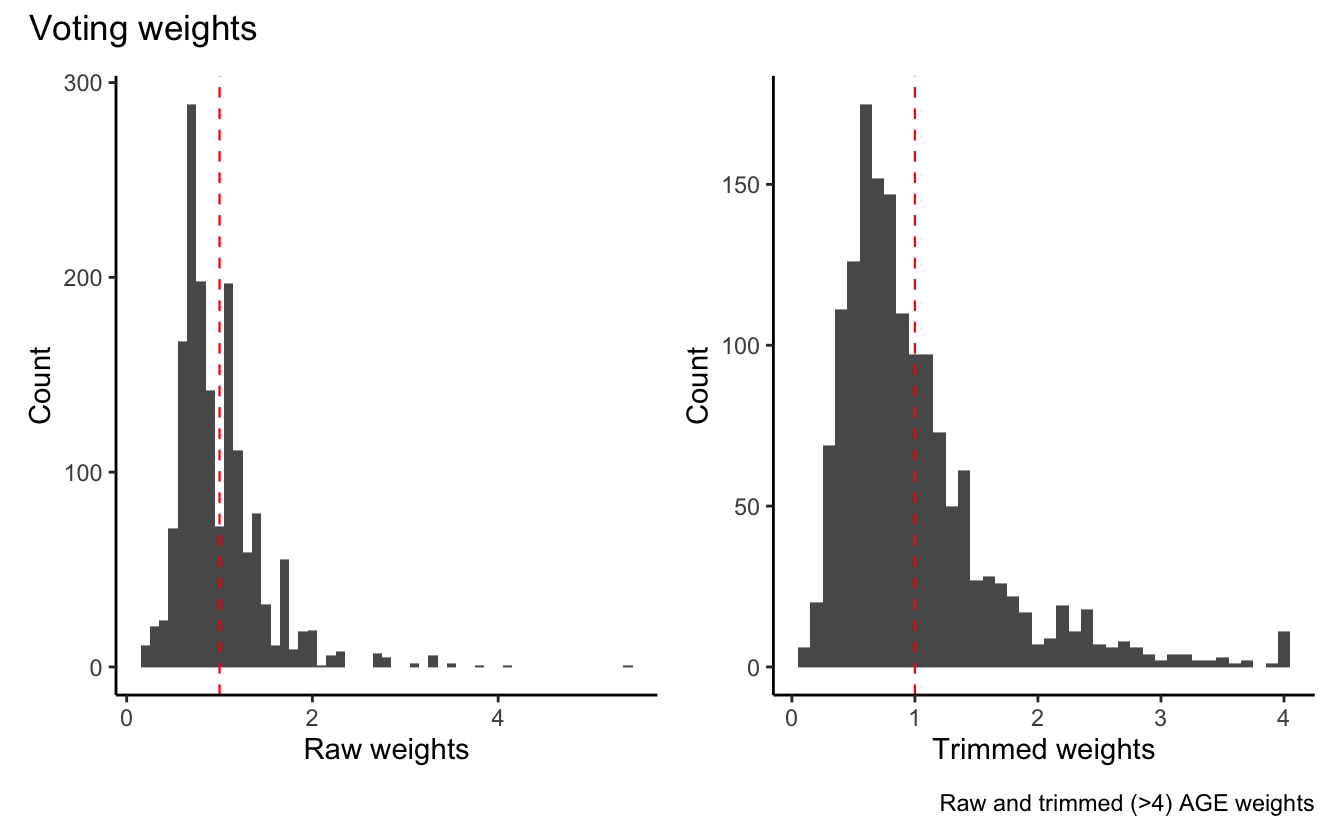
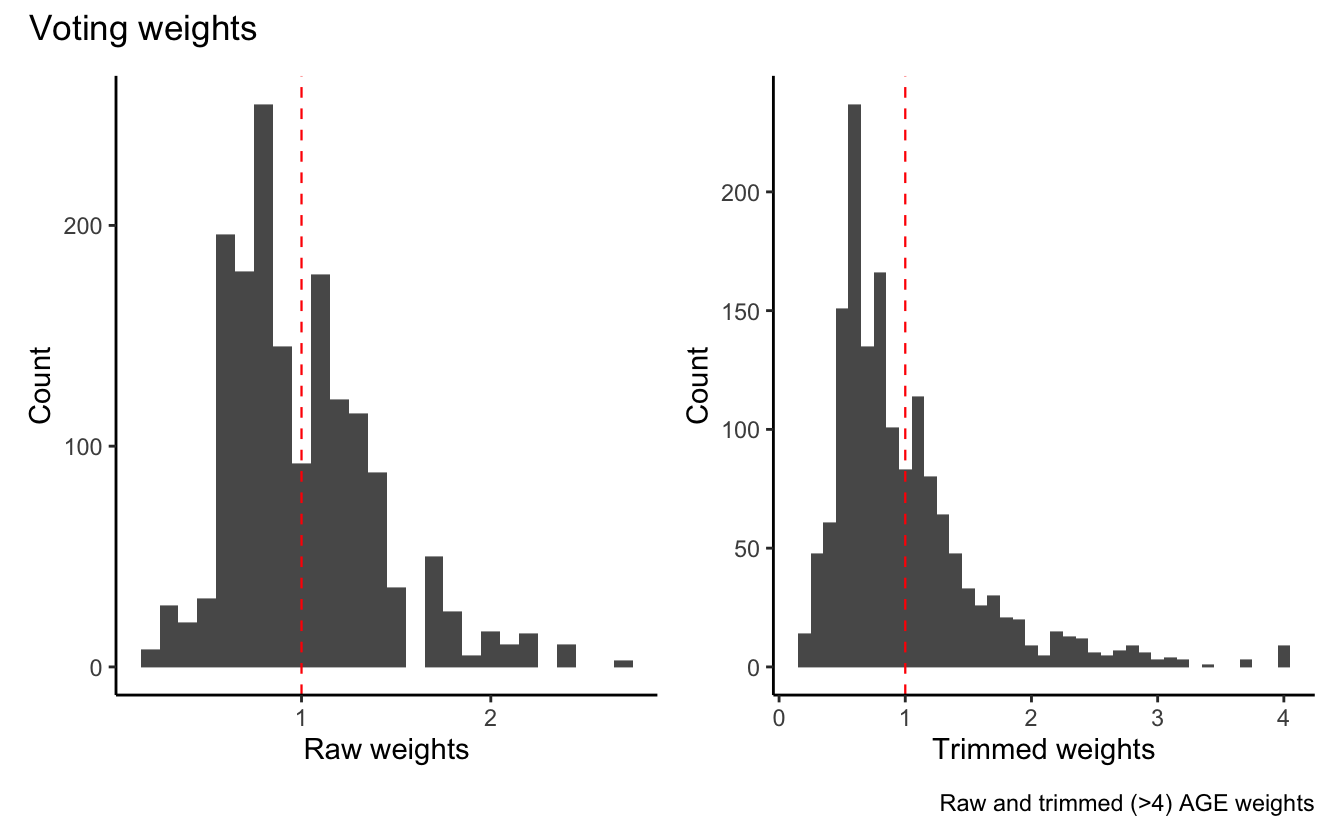
update weights blog post

diff --git a/content/post/weights_blog_post/weights_blog_post.md b/content/post/weights_blog_post/weights_blog_post.md
@@ -1,7 +1,7 @@
 ---
 title: Weighting the BNES 2019 data
 author: Alberto Stefanelli^[[Alberto  Stefanelli](https://albertostefanelli.com/)]
-# date: "2021-02-22"
+# date: "2021-03-15"
 # fontsize: 10pt 
 bibliography: /Users/serg/Library/Mobile Documents/com\~apple\~CloudDocs/academia/library.bib
 link-citations: yes
@@ -18,7 +18,7 @@ output:
   #   fig_width: 12
   #   fig_height: 8
 # header-includes
-rmd_hash: e2bdb99c56d47cca
+rmd_hash: 141b2d392c6ed9a9
 
 ---
 
@@ -53,25 +53,25 @@ The first step to calculate post-stratification weights is to pre-process the BN
 
 <div class="highlight">
 
-<pre class='chroma'><code class='language-r' data-lang='r'><span class='c'>## Read the LSF data ##</span>
-<span class='nv'>lsf</span> <span class='o'>&lt;-</span> <span class='nf'>readxl</span><span class='nf'>::</span><span class='nf'><a href='https://readxl.tidyverse.org/reference/read_excel.html'>read_excel</a></span><span class='o'>(</span><span class='s'>"kub_BNES_2019.xlsx"</span>,
-                          sheet<span class='o'>=</span><span class='m'>1</span><span class='o'>)</span>
-<span class='nf'><a href='https://rdrr.io/r/base/table.html'>table</a></span><span class='o'>(</span><span class='nv'>lsf</span><span class='o'>$</span><span class='nv'>REG1</span><span class='o'>)</span>
+<pre class='chroma'><code class='language-r' data-lang='r'><span class='c'>## Read the lfs data ##</span>
+<span class='nv'>lfs</span> <span class='o'>&lt;-</span> <span class='nf'>read_csv</span><span class='o'>(</span><span class='s'>"kub_BNES_2019_03_15_2021.csv"</span><span class='o'>)</span>
 
-BXL VLA WAL 
- 42  42  42 
-<span class='nf'><a href='https://rdrr.io/r/base/table.html'>table</a></span><span class='o'>(</span><span class='nv'>lsf</span><span class='o'>$</span><span class='nv'>sex1</span><span class='o'>)</span>
+<span class='nf'><a href='https://rdrr.io/r/base/table.html'>table</a></span><span class='o'>(</span><span class='nv'>lfs</span><span class='o'>$</span><span class='nv'>REG1</span><span class='o'>)</span>
+
+VLA WAL 
+ 42  42 
+<span class='nf'><a href='https://rdrr.io/r/base/table.html'>table</a></span><span class='o'>(</span><span class='nv'>lfs</span><span class='o'>$</span><span class='nv'>sex1</span><span class='o'>)</span>
 
 MEN WOM 
- 63  63 
-<span class='nf'><a href='https://rdrr.io/r/base/table.html'>table</a></span><span class='o'>(</span><span class='nv'>lsf</span><span class='o'>$</span><span class='nv'>age18</span><span class='o'>)</span>
+ 42  42 
+<span class='nf'><a href='https://rdrr.io/r/base/table.html'>table</a></span><span class='o'>(</span><span class='nv'>lfs</span><span class='o'>$</span><span class='nv'>age18</span><span class='o'>)</span>
 
 18-27 28-37 38-47 48-57 58-67 68-77    78 
-   18    18    18    18    18    18    18 
-<span class='nf'><a href='https://rdrr.io/r/base/table.html'>table</a></span><span class='o'>(</span><span class='nv'>lsf</span><span class='o'>$</span><span class='nv'>educat3c</span><span class='o'>)</span>
+   12    12    12    12    12    12    12 
+<span class='nf'><a href='https://rdrr.io/r/base/table.html'>table</a></span><span class='o'>(</span><span class='nv'>lfs</span><span class='o'>$</span><span class='nv'>educat3c</span><span class='o'>)</span>
 
  1  2  3 
-42 42 42 </code></pre>
+28 28 28 </code></pre>
 
 </div>
 
@@ -80,7 +80,7 @@ The LFS data set is aggregated by specific categories. For instance, education (
 <div class="highlight">
 
 <pre class='chroma'><code class='language-r' data-lang='r'><span class='c'>## Read the BNES data ##</span>
-<span class='nv'>BNES_2019</span> <span class='o'>&lt;-</span> <span class='nf'>haven</span><span class='nf'>::</span><span class='nf'><a href='https://haven.tidyverse.org/reference/read_spss.html'>read_sav</a></span><span class='o'>(</span><span class='s'>"BNES_2019_complete_update_02_10_2021.sav"</span><span class='o'>)</span>
+<span class='nv'>BNES_2019</span> <span class='o'>&lt;-</span> <span class='nf'>haven</span><span class='nf'>::</span><span class='nf'><a href='https://haven.tidyverse.org/reference/read_spss.html'>read_sav</a></span><span class='o'>(</span><span class='s'>"BNES_2019_complete_update_clean_03_15_2021.sav"</span><span class='o'>)</span>
 
 <span class='nv'>BNES_selected</span> <span class='o'>&lt;-</span> <span class='nv'>BNES_2019</span> <span class='o'>%&gt;%</span> <span class='nf'>select</span><span class='o'>(</span><span class='nv'>age</span>,
                                       <span class='nv'>PROVINCE</span>,
@@ -91,7 +91,7 @@ The LFS data set is aggregated by specific categories. For instance, education (
                                       <span class='nv'>q24</span>        <span class='c'># self-reported vote</span>
                                       <span class='o'>)</span>
 
-<span class='c'># recode education to match the LSF data</span>
+<span class='c'># recode education to match the LFS data</span>
 <span class='nv'>BNES_selected</span><span class='o'>$</span><span class='nv'>educat3c</span> <span class='o'>&lt;-</span> <span class='nf'><a href='https://rdrr.io/r/base/ifelse.html'>ifelse</a></span><span class='o'>(</span><span class='nv'>BNES_selected</span><span class='o'>$</span><span class='nv'>q13</span> <span class='o'>&lt;=</span><span class='m'>5</span> , <span class='m'>1</span>,
                                   <span class='nf'><a href='https://rdrr.io/r/base/ifelse.html'>ifelse</a></span><span class='o'>(</span><span class='nv'>BNES_selected</span><span class='o'>$</span><span class='nv'>q13</span> <span class='o'>&gt;</span><span class='m'>5</span> <span class='o'>&amp;</span> <span class='nv'>BNES_selected</span><span class='o'>$</span><span class='nv'>q13</span> <span class='o'>&lt;=</span><span class='m'>8</span> , <span class='m'>2</span>,
                                     <span class='nf'><a href='https://rdrr.io/r/base/ifelse.html'>ifelse</a></span><span class='o'>(</span><span class='nv'>BNES_selected</span><span class='o'>$</span><span class='nv'>q13</span> <span class='o'>&gt;</span><span class='m'>8</span> <span class='o'>&amp;</span> <span class='nv'>BNES_selected</span><span class='o'>$</span><span class='nv'>q13</span> <span class='o'>&lt;=</span><span class='m'>10</span>, <span class='m'>3</span>, <span class='kc'>NA</span>
@@ -100,11 +100,11 @@ The LFS data set is aggregated by specific categories. For instance, education (
 
 </div>
 
-Similarly, we need to recode the rest of the variables that we are going to use to calculate the weights, namely age, gender, and region. Age is aggregated in 7 categories: 18-27; 28-37; 38-47; 48-57; 58-67; 68-77 and plus 78. The 3 regions are Flanders (VLA), Wallonia (WAL) and Brussels-capital (BXL). The assigned sex at birth is female (WOM) and male (MEN).
+Similarly, we need to recode the rest of the variables that we are going to use to calculate the weights, namely age, gender, and region. Age is aggregated in 7 categories: 18-27; 28-37; 38-47; 48-57; 58-67; 68-77 and plus 78. The 2 regions are Flanders (VLA) and Wallonia (WAL) (roughly) corresponding to French-speaking and Dutch-speaking Belgium. The assigned sex at birth is female (WOM) and male (MEN).
 
 <div class="highlight">
 
-<pre class='chroma'><code class='language-r' data-lang='r'><span class='c'># recode age to match the LSF data</span>
+<pre class='chroma'><code class='language-r' data-lang='r'><span class='c'># recode age to match the LFS data</span>
 <span class='nv'>BNES_selected</span><span class='o'>$</span><span class='nv'>age18</span> <span class='o'>&lt;-</span> <span class='nf'><a href='https://rdrr.io/r/base/ifelse.html'>ifelse</a></span><span class='o'>(</span><span class='nv'>BNES_selected</span><span class='o'>$</span><span class='nv'>age</span> <span class='o'>&gt;=</span><span class='m'>18</span> <span class='o'>&amp;</span> <span class='nv'>BNES_selected</span><span class='o'>$</span><span class='nv'>age</span> <span class='o'>&lt;=</span><span class='m'>27</span>, <span class='s'>"18-27"</span>, 
                         <span class='nf'><a href='https://rdrr.io/r/base/ifelse.html'>ifelse</a></span><span class='o'>(</span><span class='nv'>BNES_selected</span><span class='o'>$</span><span class='nv'>age</span> <span class='o'>&gt;</span> <span class='m'>27</span> <span class='o'>&amp;</span> <span class='nv'>BNES_selected</span><span class='o'>$</span><span class='nv'>age</span> <span class='o'>&lt;=</span><span class='m'>37</span>, <span class='s'>"28-37"</span>,
                           <span class='nf'><a href='https://rdrr.io/r/base/ifelse.html'>ifelse</a></span><span class='o'>(</span><span class='nv'>BNES_selected</span><span class='o'>$</span><span class='nv'>age</span> <span class='o'>&gt;</span> <span class='m'>37</span> <span class='o'>&amp;</span> <span class='nv'>BNES_selected</span><span class='o'>$</span><span class='nv'>age</span> <span class='o'>&lt;=</span><span class='m'>47</span>, <span class='s'>"38-47"</span>,
@@ -114,21 +114,14 @@ Similarly, we need to recode the rest of the variables that we are going to use 
                                   <span class='nf'><a href='https://rdrr.io/r/base/ifelse.html'>ifelse</a></span><span class='o'>(</span><span class='nv'>BNES_selected</span><span class='o'>$</span><span class='nv'>age</span> <span class='o'>&gt;</span> <span class='m'>77</span>, <span class='s'>"78"</span>,<span class='kc'>NA</span>
                           <span class='o'>)</span><span class='o'>)</span><span class='o'>)</span><span class='o'>)</span><span class='o'>)</span><span class='o'>)</span><span class='o'>)</span>
 
-<span class='c'># recode region to match the LSF data</span>
+<span class='c'># recode region to match the lfs data</span>
 <span class='nv'>BNES_selected</span><span class='o'>$</span><span class='nv'>REG1</span> <span class='o'>&lt;-</span> <span class='nf'><a href='https://rdrr.io/r/base/ifelse.html'>ifelse</a></span><span class='o'>(</span><span class='nv'>BNES_selected</span><span class='o'>$</span><span class='nv'>region</span><span class='o'>==</span><span class='m'>1</span>, <span class='s'>"VLA"</span>,
                              <span class='nf'><a href='https://rdrr.io/r/base/ifelse.html'>ifelse</a></span><span class='o'>(</span><span class='nv'>BNES_selected</span><span class='o'>$</span><span class='nv'>region</span><span class='o'>==</span><span class='m'>2</span>, <span class='s'>"WAL"</span>,<span class='kc'>NA</span>
                              <span class='o'>)</span><span class='o'>)</span>
 
 
-
-<span class='c'># in the original dataset, Brussels-capital region is not present so we are going </span>
-<span class='c'># to use the province variable to identify Brussels's respondents </span>
-<span class='nv'>BNES_selected</span><span class='o'>$</span><span class='nv'>REG1</span> <span class='o'>&lt;-</span>  <span class='nf'><a href='https://rdrr.io/r/base/ifelse.html'>ifelse</a></span><span class='o'>(</span><span class='nv'>BNES_selected</span><span class='o'>$</span><span class='nv'>REG1</span><span class='o'>==</span><span class='s'>"WAL"</span> <span class='o'>&amp;</span> <span class='nv'>BNES_selected</span><span class='o'>$</span><span class='nv'>PROVINCE</span><span class='o'>==</span><span class='m'>2</span>, <span class='s'>"BXL"</span>, <span class='nv'>BNES_selected</span><span class='o'>$</span><span class='nv'>REG1</span><span class='o'>)</span>
-
-<span class='c'># recode sex to match the LSF data</span>
-<span class='nv'>BNES_selected</span><span class='o'>$</span><span class='nv'>sex1</span> <span class='o'>&lt;-</span> <span class='nf'><a href='https://rdrr.io/r/base/ifelse.html'>ifelse</a></span><span class='o'>(</span><span class='nv'>BNES_selected</span><span class='o'>$</span><span class='nv'>q2</span><span class='o'>==</span><span class='m'>1</span>, <span class='s'>"MEN"</span>, <span class='s'>"WOM"</span><span class='o'>)</span>
-
-</code></pre>
+<span class='c'># recode sex to match the lfs data</span>
+<span class='nv'>BNES_selected</span><span class='o'>$</span><span class='nv'>sex1</span> <span class='o'>&lt;-</span> <span class='nf'><a href='https://rdrr.io/r/base/ifelse.html'>ifelse</a></span><span class='o'>(</span><span class='nv'>BNES_selected</span><span class='o'>$</span><span class='nv'>q2</span><span class='o'>==</span><span class='m'>1</span>, <span class='s'>"MEN"</span>, <span class='s'>"WOM"</span><span class='o'>)</span></code></pre>
 
 </div>
 
@@ -152,7 +145,7 @@ The next step consists of calculating the population margins and the correspondi
 <div class="highlight">
 
 <pre class='chroma'><code class='language-r' data-lang='r'><span class='c'># calculate the population totals</span>
-<span class='nv'>totals</span> <span class='o'>&lt;-</span> <span class='nv'>lsf</span> <span class='o'>%&gt;%</span> 
+<span class='nv'>totals</span> <span class='o'>&lt;-</span> <span class='nv'>lfs</span> <span class='o'>%&gt;%</span> 
   <span class='nf'>group_by</span><span class='o'>(</span><span class='nv'>sex1</span>, <span class='nv'>REG1</span>, <span class='nv'>age18</span>, <span class='nv'>educat3c</span><span class='o'>)</span> <span class='o'>%&gt;%</span> 
   <span class='nf'>summarize</span><span class='o'>(</span>count <span class='o'>=</span> <span class='nf'><a href='https://rdrr.io/r/base/sum.html'>sum</a></span><span class='o'>(</span><span class='nv'>CW_ALL_Q_Sum</span><span class='o'>)</span><span class='o'>)</span>
 
@@ -165,14 +158,14 @@ The next step consists of calculating the population margins and the correspondi
 <span class='nf'>kable</span><span class='o'>(</span><span class='nf'><a href='https://rdrr.io/r/utils/head.html'>head</a></span><span class='o'>(</span><span class='nv'>marignals_share</span><span class='o'>)</span><span class='o'>)</span>
 </code></pre>
 
-| sex1 | REG1 | age18 | educat3c |    count | marignals_share |     Freq |
-|:-----|:-----|:------|---------:|---------:|----------------:|---------:|
-| MEN  | BXL  | 18-27 |        1 | 24656.65 |       0.0027365 | 4.446835 |
-| MEN  | BXL  | 18-27 |        2 | 36213.56 |       0.0040192 | 6.531126 |
-| MEN  | BXL  | 18-27 |        3 | 16971.64 |       0.0018836 | 3.060841 |
-| MEN  | BXL  | 28-37 |        1 | 21671.59 |       0.0024052 | 3.908479 |
-| MEN  | BXL  | 28-37 |        2 | 22445.38 |       0.0024911 | 4.048031 |
-| MEN  | BXL  | 28-37 |        3 | 55279.43 |       0.0061352 | 9.969663 |
+| sex1 | REG1 | age18 | educat3c |    count | marignals_share |      Freq |
+|:-----|:-----|:------|---------:|---------:|----------------:|----------:|
+| MEN  | VLA  | 18-27 |        1 |  75932.2 |       0.0084273 | 13.702824 |
+| MEN  | VLA  | 18-27 |        2 | 200763.4 |       0.0222817 | 36.230020 |
+| MEN  | VLA  | 18-27 |        3 | 102181.7 |       0.0113406 | 18.439838 |
+| MEN  | VLA  | 28-37 |        1 |  54259.9 |       0.0060220 |  9.791813 |
+| MEN  | VLA  | 28-37 |        2 | 195885.3 |       0.0217403 | 35.349711 |
+| MEN  | VLA  | 28-37 |        3 | 162217.5 |       0.0180037 | 29.273983 |
 
 </div>
 
@@ -245,7 +238,6 @@ In certain scenarios, the computed weights might be too large. This happens when
 <span class='nv'>plot_non_trimmed</span> <span class='o'>+</span> <span class='nv'>plot_trimmed</span> <span class='o'>+</span> <span class='nf'>plot_annotation</span><span class='o'>(</span>
   title <span class='o'>=</span> <span class='s'>'Demographic weights'</span>,
   caption <span class='o'>=</span> <span class='s'>'Raw and trimmed (&gt;4) AGE weights'</span><span class='o'>)</span>
-
 </code></pre>
 <img src="figs/unnamed-chunk-7-1.png" width="700px" style="display: block; margin: auto;" />
 
@@ -255,8 +247,7 @@ Finally, we merge the weights with the untouched dataset. We use the respondent 
 
 <div class="highlight">
 
-<pre class='chroma'><code class='language-r' data-lang='r'>
-<span class='c'>## Merge the weights with the BNES data ##</span>
+<pre class='chroma'><code class='language-r' data-lang='r'><span class='c'>## Merge the weights with the BNES data ##</span>
 <span class='nv'>binded</span> <span class='o'>&lt;-</span> <span class='nf'><a href='https://rdrr.io/r/base/cbind.html'>cbind</a></span><span class='o'>(</span><span class='nv'>data_wo_na_f</span>, <span class='nf'><a href='https://rdrr.io/r/stats/weights.html'>weights</a></span><span class='o'>(</span><span class='nv'>trimmed_w</span><span class='o'>)</span><span class='o'>)</span>
 <span class='c'># rename the weight variable according to the type of weights calculated (i.e. AGE)</span>
 <span class='nf'><a href='https://rdrr.io/r/base/names.html'>names</a></span><span class='o'>(</span><span class='nv'>binded</span><span class='o'>)</span><span class='o'>[</span><span class='nf'><a href='https://rdrr.io/r/base/grep.html'>grep</a></span><span class='o'>(</span><span class='s'>"weights"</span>, <span class='nf'><a href='https://rdrr.io/r/base/names.html'>names</a></span><span class='o'>(</span><span class='nv'>binded</span><span class='o'>)</span><span class='o'>)</span><span class='o'>]</span> <span class='o'>&lt;-</span> <span class='s'>"w_age_bel"</span>
@@ -273,7 +264,7 @@ Finally, we merge the weights with the untouched dataset. We use the respondent 
 
 <span class='c'>## Check everything is in order ##</span>
 <span class='c'># missing weights only for obs with missing on the matching variables</span>
-<span class='nv'>id_na</span> <span class='o'>&lt;-</span> <span class='nv'>BNES_2019</span><span class='o'>[</span> ,<span class='s'>"addressID"</span><span class='o'>]</span><span class='o'>[</span><span class='nf'><a href='https://rdrr.io/r/base/NA.html'>is.na</a></span><span class='o'>(</span><span class='nv'>BNES_2019</span><span class='o'>[</span><span class='nf'><a href='https://rdrr.io/r/base/c.html'>c</a></span><span class='o'>(</span><span class='s'>"w_age_bel"</span><span class='o'>)</span><span class='o'>]</span><span class='o'>)</span><span class='o'>]</span>
+<span class='nv'>id_na</span> <span class='o'>&lt;-</span> <span class='nv'>BNES_2019</span><span class='o'>[</span><span class='nf'><a href='https://rdrr.io/r/base/NA.html'>is.na</a></span><span class='o'>(</span><span class='nv'>BNES_2019</span><span class='o'>[</span><span class='nf'><a href='https://rdrr.io/r/base/c.html'>c</a></span><span class='o'>(</span><span class='s'>"w_age_bel"</span><span class='o'>)</span><span class='o'>]</span><span class='o'>)</span> ,<span class='s'>"addressID"</span><span class='o'>]</span><span class='o'>[</span><span class='o'>]</span>
 
 <span class='nv'>list_na</span> <span class='o'>&lt;-</span> <span class='nf'><a href='https://rdrr.io/r/base/c.html'>c</a></span><span class='o'>(</span><span class='o'>)</span>
 <span class='kr'>for</span> <span class='o'>(</span><span class='nv'>i</span> <span class='kr'>in</span> <span class='nf'><a href='https://rdrr.io/r/base/array.html'>array</a></span><span class='o'>(</span><span class='nf'><a href='https://rdrr.io/r/base/unlist.html'>unlist</a></span><span class='o'>(</span><span class='nv'>id_na</span><span class='o'>)</span><span class='o'>)</span><span class='o'>)</span> <span class='o'>&#123;</span>
@@ -286,10 +277,10 @@ Finally, we merge the weights with the untouched dataset. We use the respondent 
 |       | age | PROVINCE | region | q13 | q2  | addressID | q24 | educat3c | age18 | REG1 | sex1 |
 |:------|:----|:---------|:-------|:----|:----|:----------|:----|:---------|:------|:-----|:-----|
 | out   | NA  | 7        | 2      | 4   | 2   | 43905     | 12  | 1        | NA    | WAL  | WOM  |
-| elt   | NA  | 2        | 2      | 4   | 2   | 43409     | 52  | 1        | NA    | BXL  | WOM  |
-| elt.1 | NA  | 2        | 2      | 3   | 1   | 43119     | 12  | 1        | NA    | BXL  | MEN  |
-| elt.2 | NA  | 2        | 2      | 3   | 2   | 41111     | 13  | 1        | NA    | BXL  | WOM  |
-| elt.3 | NA  | 2        | 2      | 4   | 2   | 41103     | 77  | 1        | NA    | BXL  | WOM  |
+| elt   | NA  | 2        | 2      | 4   | 2   | 43409     | 52  | 1        | NA    | WAL  | WOM  |
+| elt.1 | NA  | 2        | 2      | 3   | 1   | 43119     | 12  | 1        | NA    | WAL  | MEN  |
+| elt.2 | NA  | 2        | 2      | 3   | 2   | 41111     | 13  | 1        | NA    | WAL  | WOM  |
+| elt.3 | NA  | 2        | 2      | 4   | 2   | 41103     | 77  | 1        | NA    | WAL  | WOM  |
 
 </div>
 
@@ -381,36 +372,27 @@ The next step consists of calculating the population margins and the correspondi
 
 | vote |      Freq |
 |:-----|----------:|
-| 1    | 113.67733 |
-| 2    | 205.04388 |
-| 3    | 109.30283 |
-| 4    |  85.85117 |
-| 5    | 152.85593 |
-| 6    |  78.07835 |
+| 1    | 113.75109 |
+| 2    | 205.17694 |
+| 3    | 109.37376 |
+| 4    |  85.90688 |
+| 5    | 152.95512 |
+| 6    |  78.12902 |
 
 </div>
 
-Next, we need to calculate the frequencies of sex age education taking into account the geographical location of the respondent (region). One issue has been glossed so far. If we are unlucky enough to sample no one from a certain population stratum, it is not possible to calculate the weights. One of the major difference between the procedure to calculate the demographic and the voting behaviour weights is the handling of such empty strata. When the option `partial = TRUE` , `postStatify()` automatically ignores any empty cell in the computation of the weights. The `rake()` function does include a `partial = TRUE` option. We could aggregate the data such as we have fewer but larger groups. Since we have just a few missing strata and only for the Brussel region, we are going to manually remove these empty cells.
+Next, we need to calculate the frequencies of sex age education taking into account the geographical location of the respondent (region). One issue has been glossed so far. If we are unlucky enough to sample no one from a certain population stratum, it is not possible to calculate the weights. One of the major difference between the procedure to calculate the demographic and the voting behaviour weights is the handling of such empty strata. When the option `partial = TRUE` , `postStatify()` automatically ignores any empty cell in the computation of the weights. The `rake()` function does include a `partial = TRUE` option. In case you have empty strata in your sample, you can aggregate the data such as we have fewer but larger groups.
 
 <div class="highlight">
 
 <pre class='chroma'><code class='language-r' data-lang='r'><span class='c'>## frequencies gender reg age eduction ##</span>
-<span class='nv'>totals</span> <span class='o'>&lt;-</span> <span class='nv'>lsf</span> <span class='o'>%&gt;%</span> <span class='nf'>group_by</span><span class='o'>(</span><span class='nv'>sex1</span>, <span class='nv'>REG1</span>, <span class='nv'>age18</span>, <span class='nv'>educat3c</span><span class='o'>)</span> <span class='o'>%&gt;%</span> 
+<span class='nv'>totals</span> <span class='o'>&lt;-</span> <span class='nv'>lfs</span> <span class='o'>%&gt;%</span> <span class='nf'>group_by</span><span class='o'>(</span><span class='nv'>sex1</span>, <span class='nv'>REG1</span>, <span class='nv'>age18</span>, <span class='nv'>educat3c</span><span class='o'>)</span> <span class='o'>%&gt;%</span> 
           <span class='nf'>summarize</span><span class='o'>(</span>count <span class='o'>=</span> <span class='nf'><a href='https://rdrr.io/r/base/sum.html'>sum</a></span><span class='o'>(</span><span class='nv'>CW_ALL_Q_Sum</span><span class='o'>)</span><span class='o'>)</span>
 
 <span class='c'># we can check the presence of any empty strata (0) in our survey data using xtab</span>
 <span class='c'># sum(xtabs(~sex1 + REG1 + age18 + educat3c,</span>
 <span class='c'>#      data_wo_na_f)==0)</span>
 
-
-<span class='c'># remove empty cells for rake</span>
-<span class='nv'>totals</span> <span class='o'>&lt;-</span> <span class='nv'>totals</span><span class='o'>[</span><span class='o'>!</span><span class='nf'><a href='https://rdrr.io/r/base/c.html'>c</a></span><span class='o'>(</span><span class='nv'>totals</span><span class='o'>$</span><span class='nv'>educat3c</span> <span class='o'>==</span> <span class='m'>1</span> <span class='o'>&amp;</span> <span class='nv'>totals</span><span class='o'>$</span><span class='nv'>REG1</span> <span class='o'>==</span> <span class='s'>"BXL"</span> <span class='o'>&amp;</span> <span class='nv'>totals</span><span class='o'>$</span><span class='nv'>sex1</span><span class='o'>==</span> <span class='s'>"MEN"</span> <span class='o'>&amp;</span> <span class='nv'>totals</span><span class='o'>$</span><span class='nv'>age18</span><span class='o'>==</span><span class='s'>"68-77"</span><span class='o'>)</span>,  <span class='o'>]</span>
-<span class='nv'>totals</span> <span class='o'>&lt;-</span> <span class='nv'>totals</span><span class='o'>[</span><span class='o'>!</span><span class='nf'><a href='https://rdrr.io/r/base/c.html'>c</a></span><span class='o'>(</span><span class='nv'>totals</span><span class='o'>$</span><span class='nv'>educat3c</span> <span class='o'>==</span> <span class='m'>1</span> <span class='o'>&amp;</span> <span class='nv'>totals</span><span class='o'>$</span><span class='nv'>REG1</span> <span class='o'>==</span> <span class='s'>"BXL"</span> <span class='o'>&amp;</span> <span class='nv'>totals</span><span class='o'>$</span><span class='nv'>sex1</span><span class='o'>==</span> <span class='s'>"MEN"</span> <span class='o'>&amp;</span> <span class='nv'>totals</span><span class='o'>$</span><span class='nv'>age18</span><span class='o'>==</span> <span class='s'>"78"</span><span class='o'>)</span>,    <span class='o'>]</span>
-<span class='nv'>totals</span> <span class='o'>&lt;-</span> <span class='nv'>totals</span><span class='o'>[</span><span class='o'>!</span><span class='nf'><a href='https://rdrr.io/r/base/c.html'>c</a></span><span class='o'>(</span><span class='nv'>totals</span><span class='o'>$</span><span class='nv'>educat3c</span> <span class='o'>==</span> <span class='m'>1</span> <span class='o'>&amp;</span> <span class='nv'>totals</span><span class='o'>$</span><span class='nv'>REG1</span> <span class='o'>==</span> <span class='s'>"BXL"</span> <span class='o'>&amp;</span> <span class='nv'>totals</span><span class='o'>$</span><span class='nv'>sex1</span><span class='o'>==</span> <span class='s'>"WOM"</span> <span class='o'>&amp;</span> <span class='nv'>totals</span><span class='o'>$</span><span class='nv'>age18</span><span class='o'>==</span> <span class='s'>"18-27"</span><span class='o'>)</span>, <span class='o'>]</span>
-<span class='nv'>totals</span> <span class='o'>&lt;-</span> <span class='nv'>totals</span><span class='o'>[</span><span class='o'>!</span><span class='nf'><a href='https://rdrr.io/r/base/c.html'>c</a></span><span class='o'>(</span><span class='nv'>totals</span><span class='o'>$</span><span class='nv'>educat3c</span> <span class='o'>==</span> <span class='m'>1</span> <span class='o'>&amp;</span> <span class='nv'>totals</span><span class='o'>$</span><span class='nv'>REG1</span> <span class='o'>==</span> <span class='s'>"BXL"</span> <span class='o'>&amp;</span> <span class='nv'>totals</span><span class='o'>$</span><span class='nv'>sex1</span><span class='o'>==</span> <span class='s'>"WOM"</span> <span class='o'>&amp;</span> <span class='nv'>totals</span><span class='o'>$</span><span class='nv'>age18</span><span class='o'>==</span> <span class='s'>"58-67"</span><span class='o'>)</span>, <span class='o'>]</span>
-<span class='nv'>totals</span> <span class='o'>&lt;-</span> <span class='nv'>totals</span><span class='o'>[</span><span class='o'>!</span><span class='nf'><a href='https://rdrr.io/r/base/c.html'>c</a></span><span class='o'>(</span><span class='nv'>totals</span><span class='o'>$</span><span class='nv'>educat3c</span> <span class='o'>==</span> <span class='m'>1</span> <span class='o'>&amp;</span> <span class='nv'>totals</span><span class='o'>$</span><span class='nv'>REG1</span> <span class='o'>==</span> <span class='s'>"BXL"</span> <span class='o'>&amp;</span> <span class='nv'>totals</span><span class='o'>$</span><span class='nv'>sex1</span><span class='o'>==</span> <span class='s'>"WOM"</span> <span class='o'>&amp;</span> <span class='nv'>totals</span><span class='o'>$</span><span class='nv'>age18</span><span class='o'>==</span> <span class='s'>"78"</span><span class='o'>)</span>,    <span class='o'>]</span>
-<span class='nv'>totals</span> <span class='o'>&lt;-</span> <span class='nv'>totals</span><span class='o'>[</span><span class='o'>!</span><span class='nf'><a href='https://rdrr.io/r/base/c.html'>c</a></span><span class='o'>(</span><span class='nv'>totals</span><span class='o'>$</span><span class='nv'>educat3c</span> <span class='o'>==</span> <span class='m'>2</span> <span class='o'>&amp;</span> <span class='nv'>totals</span><span class='o'>$</span><span class='nv'>REG1</span> <span class='o'>==</span> <span class='s'>"BXL"</span> <span class='o'>&amp;</span> <span class='nv'>totals</span><span class='o'>$</span><span class='nv'>sex1</span><span class='o'>==</span> <span class='s'>"MEN"</span> <span class='o'>&amp;</span> <span class='nv'>totals</span><span class='o'>$</span><span class='nv'>age18</span><span class='o'>==</span> <span class='s'>"58-67"</span><span class='o'>)</span>, <span class='o'>]</span>
-<span class='nv'>totals</span> <span class='o'>&lt;-</span> <span class='nv'>totals</span><span class='o'>[</span><span class='o'>!</span><span class='nf'><a href='https://rdrr.io/r/base/c.html'>c</a></span><span class='o'>(</span><span class='nv'>totals</span><span class='o'>$</span><span class='nv'>educat3c</span> <span class='o'>==</span> <span class='m'>2</span> <span class='o'>&amp;</span> <span class='nv'>totals</span><span class='o'>$</span><span class='nv'>REG1</span> <span class='o'>==</span> <span class='s'>"BXL"</span> <span class='o'>&amp;</span> <span class='nv'>totals</span><span class='o'>$</span><span class='nv'>sex1</span><span class='o'>==</span> <span class='s'>"MEN"</span> <span class='o'>&amp;</span> <span class='nv'>totals</span><span class='o'>$</span><span class='nv'>age18</span><span class='o'>==</span> <span class='s'>"68-77"</span><span class='o'>)</span>, <span class='o'>]</span>
 
 <span class='nv'>marignals_share</span> <span class='o'>&lt;-</span> <span class='nv'>totals</span> <span class='o'>%&gt;%</span> 
                    <span class='nf'>ungroup</span><span class='o'>(</span><span class='o'>)</span> <span class='o'>%&gt;%</span> 
@@ -427,14 +409,14 @@ Next, we need to calculate the frequencies of sex age education taking into acco
 <span class='nf'>kable</span><span class='o'>(</span><span class='nf'><a href='https://rdrr.io/r/utils/head.html'>head</a></span><span class='o'>(</span><span class='nv'>freq_ager</span><span class='o'>)</span><span class='o'>)</span>
 </code></pre>
 
-| sex1 | REG1 | age18 | educat3c |     Freq |
-|:-----|:-----|:------|---------:|---------:|
-| MEN  | BXL  | 18-27 |        1 | 4.262968 |
-| MEN  | BXL  | 18-27 |        2 | 6.261078 |
-| MEN  | BXL  | 18-27 |        3 | 2.934282 |
-| MEN  | BXL  | 28-37 |        1 | 3.746872 |
-| MEN  | BXL  | 28-37 |        2 | 3.880654 |
-| MEN  | BXL  | 28-37 |        3 | 9.557439 |
+| sex1 | REG1 | age18 | educat3c |      Freq |
+|:-----|:-----|:------|---------:|----------:|
+| MEN  | VLA  | 18-27 |        1 | 12.994929 |
+| MEN  | VLA  | 18-27 |        2 | 34.358359 |
+| MEN  | VLA  | 18-27 |        3 | 17.487227 |
+| MEN  | VLA  | 28-37 |        1 |  9.285963 |
+| MEN  | VLA  | 28-37 |        2 | 33.523526 |
+| MEN  | VLA  | 28-37 |        3 | 27.761674 |
 
 </div>
 
@@ -443,6 +425,7 @@ Finally, we are going to use the `rake()` function to iteratively match the popu
 <div class="highlight">
 
 <pre class='chroma'><code class='language-r' data-lang='r'><span class='nv'>data_unweighted</span> <span class='o'>&lt;-</span> <span class='nf'>svydesign</span><span class='o'>(</span>ids<span class='o'>=</span><span class='o'>~</span><span class='nv'>addressID</span>, data<span class='o'>=</span><span class='nv'>data_wo_na_f</span><span class='o'>)</span>
+
 
 <span class='c'>## Run raking (IPF) for ager and voting ##</span>
 <span class='nv'>s_rake</span> <span class='o'>&lt;-</span> <span class='nf'>rake</span><span class='o'>(</span>design <span class='o'>=</span> <span class='nv'>data_unweighted</span>, 
@@ -557,7 +540,7 @@ Let's merge the weights with the BNES dataset and check that we achieved the des
 
 <div class="highlight">
 
-<pre class='chroma'><code class='language-r' data-lang='r'>R version 4.0.3 (2020-10-10)
+<pre class='chroma'><code class='language-r' data-lang='r'>R version 4.0.4 (2021-02-15)
 Platform: x86_64-apple-darwin17.0 (64-bit)
 Running under: macOS Big Sur 10.16
 
@@ -572,15 +555,14 @@ attached base packages:
 [1] grid      stats     graphics  grDevices utils     datasets  methods   base     
 
 other attached packages:
- [1] knitr_1.31           patchwork_1.1.1      gtsummary_1.3.6.9015 gt_0.2.2             survey_4.0           survival_3.2-7       Matrix_1.2-18        forcats_0.5.1        stringr_1.4.0        dplyr_1.0.4          purrr_0.3.4          readr_1.4.0          tidyr_1.1.2          tibble_3.0.6        
-[15] ggplot2_3.3.3        tidyverse_1.3.0     
+ [1] knitr_1.31      patchwork_1.1.1 gtsummary_1.3.7 gt_0.2.2        survey_4.0      survival_3.2-7  Matrix_1.3-2    forcats_0.5.1   stringr_1.4.0   dplyr_1.0.5     purrr_0.3.4     readr_1.4.0     tidyr_1.1.3     tibble_3.1.0    ggplot2_3.3.3   tidyverse_1.3.0
 
 loaded via a namespace (and not attached):
- [1] httr_1.4.2          jsonlite_1.7.2      splines_4.0.3       modelr_0.1.8        assertthat_0.2.1    highr_0.8           cellranger_1.1.0    yaml_2.2.1          gdtools_0.2.3       pillar_1.4.7        backports_1.2.1     lattice_0.20-41     glue_1.4.2          uuid_0.1-4         
-[15] digest_0.6.27       rvest_0.3.6         colorspace_2.0-0    htmltools_0.5.1.1   pkgconfig_2.0.3     broom_0.7.5         haven_2.3.1         scales_1.1.1        webshot_0.5.2       processx_3.4.5      officer_0.3.16      downlit_0.2.1       generics_0.1.0      farver_2.0.3       
-[29] ellipsis_0.3.1      withr_2.4.1         cli_2.3.0           magrittr_2.0.1      crayon_1.4.1        readxl_1.3.1        evaluate_0.14       ps_1.5.0            fs_1.5.0            fansi_0.4.2         broom.helpers_1.2.0 xml2_1.3.2          tools_4.0.3         data.table_1.13.6  
-[43] hms_1.0.0           mitools_2.4         lifecycle_1.0.0     flextable_0.6.3     munsell_0.5.0       reprex_0.3.0        zip_2.1.1           callr_3.5.1         compiler_4.0.3      systemfonts_0.3.2   rlang_0.4.10        rstudioapi_0.13     base64enc_0.1-3     labeling_0.4.2     
-[57] rmarkdown_2.7       gtable_0.3.0        DBI_1.1.1           R6_2.5.0            lubridate_1.7.9.2   stringi_1.5.3       hugodown_0.0.0.9000 Rcpp_1.0.6          vctrs_0.3.6         dbplyr_2.0.0        tidyselect_1.1.0    xfun_0.21          </code></pre>
+ [1] httr_1.4.2          jsonlite_1.7.2      splines_4.0.4       modelr_0.1.8        assertthat_0.2.1    highr_0.8           cellranger_1.1.0    yaml_2.2.1          gdtools_0.2.3       pillar_1.5.1        backports_1.2.1     lattice_0.20-41     glue_1.4.2          uuid_0.1-4         
+[15] digest_0.6.27       rvest_0.3.6         colorspace_2.0-0    htmltools_0.5.1.1   pkgconfig_2.0.3     broom_0.7.5.9000    haven_2.3.1         webshot_0.5.2       scales_1.1.1        processx_3.4.5      officer_0.3.17      downlit_0.2.1       generics_0.1.0      farver_2.0.3       
+[29] usethis_2.0.1       ellipsis_0.3.1      withr_2.4.1         cli_2.3.1           magrittr_2.0.1      crayon_1.4.1        readxl_1.3.1        evaluate_0.14       ps_1.6.0            fs_1.5.0            fansi_0.4.2         broom.helpers_1.2.1 xml2_1.3.2          tools_4.0.4        
+[43] data.table_1.14.0   hms_1.0.0           mitools_2.4         lifecycle_1.0.0     flextable_0.6.3     munsell_0.5.0       reprex_1.0.0        zip_2.1.1           callr_3.5.1         compiler_4.0.4      systemfonts_1.0.1   rlang_0.4.10        rstudioapi_0.13     base64enc_0.1-3    
+[57] labeling_0.4.2      rmarkdown_2.7       gtable_0.3.0        DBI_1.1.1           R6_2.5.0            lubridate_1.7.10    utf8_1.1.4          stringi_1.5.3       hugodown_0.0.0.9000 Rcpp_1.0.6          vctrs_0.3.6         dbplyr_2.1.0        tidyselect_1.1.0    xfun_0.22          </code></pre>
 
 </div>
 
